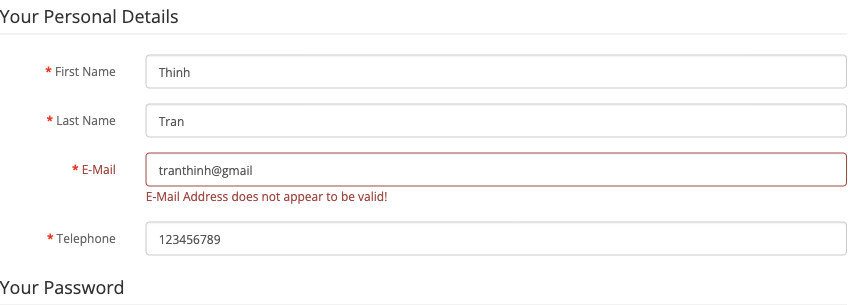
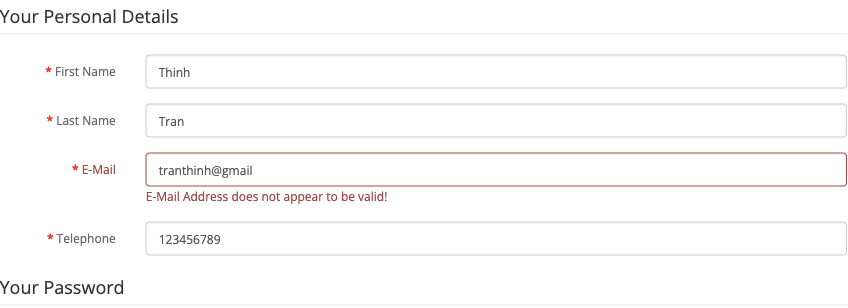
TC_RF_005

diff --git a/src/test/java/tutorialsninja/register/TC_RF_005.java b/src/test/java/tutorialsninja/register/TC_RF_005.java
@@ -5,6 +5,7 @@ import org.openqa.selenium.OutputType;
 import org.openqa.selenium.WebDriver;
 import org.openqa.selenium.chrome.ChromeDriver;
 import org.openqa.selenium.io.FileHandler;
+import org.testng.Assert;
 import org.testng.annotations.Test;
 import ru.yandex.qatools.ashot.comparison.ImageDiff;
 import ru.yandex.qatools.ashot.comparison.ImageDiffer;
@@ -48,9 +49,8 @@ public class TC_RF_005 {
         BufferedImage expectedIMG = ImageIO.read( new File(System.getProperty("user.dir")+"/Screenshots/sc1Expected.png"));
 
         ImageDiffer imgDiffer = new ImageDiffer();
-        ImageDiff imgDifference = imgDiffer.makeDiff(expectedIMG,actualImg);
-        boolean b = imgDifference.hasDiff();
-        System.out.println(b);
+        ImageDiff imgDifference = imgDiffer.makeDiff(actualImg,expectedIMG);
+        Assert.assertTrue(imgDifference.hasDiff());
         driver.quit();
 
     }
